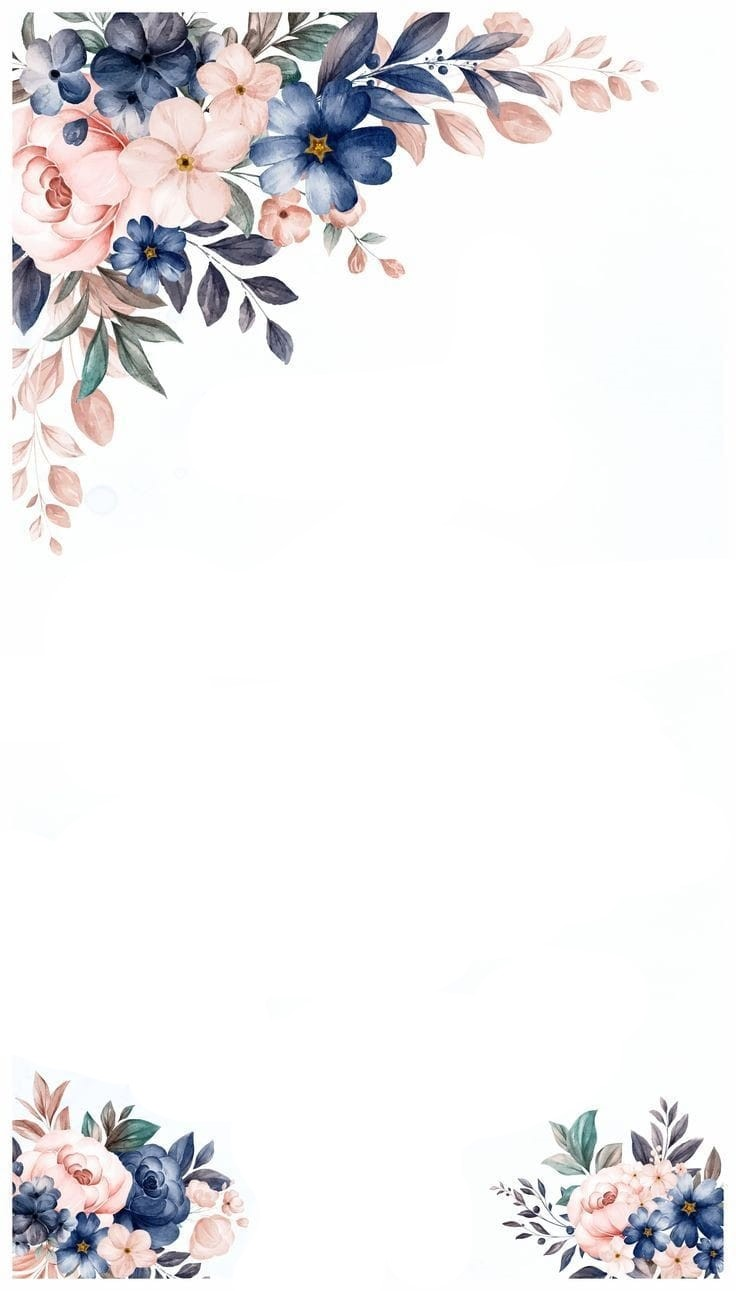
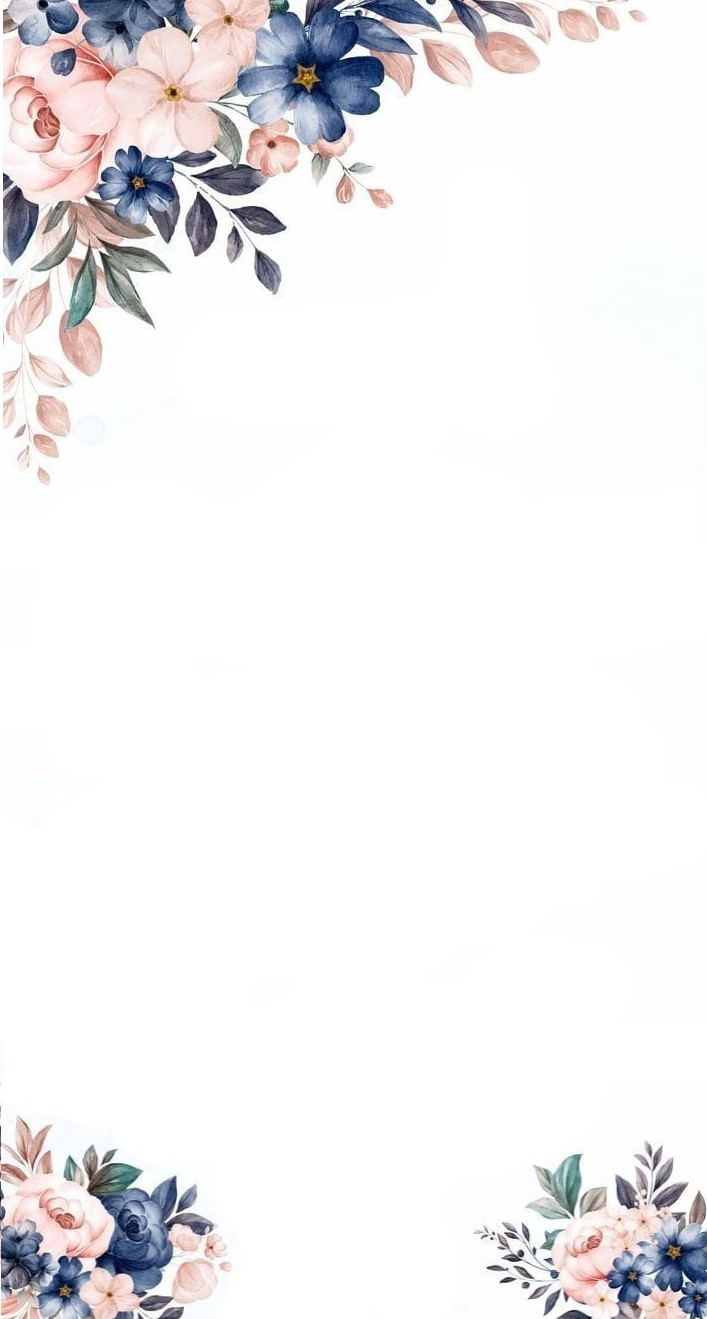
Creando página principal

Changed region(s): [[0.0, 0.0, 0.9024, 0.4338], [0.0, 0.8366, 0.3423, 1.0], [0.6846, 0.8366, 1.0, 1.0]]

diff --git a/assets/css/styles.css b/assets/css/styles.css
@@ -3,91 +3,40 @@
   box-sizing: border-box;
 }
 
-body {
-  font-family: "Josefin Sans", sans-serif;
-}
-
+/*PAGINA PRINCIPAL*/
 .container {
-  background-image: url(../images/fondo_1.jpg);
-  background-repeat: no-repeat;
   height: 100vh;
   width: 100%;
+  position: relative;
+}
+.container__img {
+  width: 100%;
+  height: 100%;
   max-width: 800px;
+  position: absolute;
+  z-index: -10;
+}
+.card__title {
+  text-align: center;
+  width: 70%;
+  padding-top: 200px;
+  font-family: "Roboto Slab", serif;
   margin: 0 auto;
-  padding: 20px;
+  color: #161a30;
 }
-.title {
+.card__names {
+  margin-top: 30px;
   text-align: center;
-  margin-top: 50px;
-  font-weight: 700;
-  font-size: 2.2rem;
-  background-color: #ffffffb6;
-  border-radius: 10px;
+  font-size: 4rem;
+  font-family: "Dancing Script", cursive;
+  color: #daa520;
+  font-weight: 100;
 }
-.registro__title {
-  text-align: center;
-  margin: 40px 0;
-}
-.label {
-  font-weight: 500;
-  font-size: 1.5rem;
-  margin-bottom: 5px;
-}
-.label--2 {
-  margin-top: 20px;
-}
-.descripcion {
-  text-align: center;
-  font-weight: 700;
-  margin-top: 50px;
-}
-.input__container {
-  display: flex;
-  flex-direction: column;
-  gap: 10px;
-  text-align: center;
-  margin-top: 50px;
-}
-.input-1 {
-  text-align: center;
-  font-size: 1.1rem;
+.card__subtitle {
   width: 80%;
-  height: 35px;
   margin: 0 auto;
-  margin-bottom: 20px;
-  border-radius: 10px;
-}
-.select-1,
-.select-2 {
+  margin-top: 30px;
+  color: #161a30;
   text-align: center;
-  width: 15%;
-  margin: 0 auto;
-  border-radius: 10px;
-  font-size: 1.2rem;
-  font-weight: 700;
-}
-
-.submit__btn {
-  color: aliceblue;
-  font-size: 1.5rem;
-  font-weight: 700;
-  display: flex;
-  align-items: center;
-  justify-content: center;
-  margin: 50px auto;
-  width: 180px;
-  height: 45px;
-  border-radius: 10px;
-  background-color: #f35597;
-  border: none;
-  box-shadow: 2px 2px 2px#0051ff;
-}
-.submit__btn:hover {
-  opacity: 70%;
-  cursor: pointer;
-}
-
-.registered {
-  text-align: center;
-  line-height: 20px;
+  font-family: "Roboto Slab", serif;
 }

diff --git a/assets/css/styles_2.css b/assets/css/styles_2.css
@@ -1,0 +1,94 @@
+* {
+  margin: 0;
+  box-sizing: border-box;
+}
+
+body {
+  font-family: "Josefin Sans", sans-serif;
+}
+
+/*PAGINA SECUNDARIA*/
+.container {
+  background-image: url(../images/fondo_1.jpg);
+  background-repeat: no-repeat;
+  height: 100vh;
+  width: 100%;
+  max-width: 800px;
+  margin: 0 auto;
+  padding: 20px;
+}
+.title {
+  text-align: center;
+  margin-top: 50px;
+  font-weight: 700;
+  font-size: 2.2rem;
+  background-color: #ffffffb6;
+  border-radius: 10px;
+}
+.registro__title {
+  text-align: center;
+  margin: 40px 0;
+}
+.label {
+  font-weight: 500;
+  font-size: 1.5rem;
+  margin-bottom: 5px;
+}
+.label--2 {
+  margin-top: 20px;
+}
+.descripcion {
+  text-align: center;
+  font-weight: 700;
+  margin-top: 50px;
+}
+.input__container {
+  display: flex;
+  flex-direction: column;
+  gap: 10px;
+  text-align: center;
+  margin-top: 50px;
+}
+.input-1 {
+  text-align: center;
+  font-size: 1.1rem;
+  width: 80%;
+  height: 35px;
+  margin: 0 auto;
+  margin-bottom: 20px;
+  border-radius: 10px;
+}
+.select-1,
+.select-2 {
+  text-align: center;
+  width: 15%;
+  margin: 0 auto;
+  border-radius: 10px;
+  font-size: 1.2rem;
+  font-weight: 700;
+}
+
+.submit__btn {
+  color: aliceblue;
+  font-size: 1.5rem;
+  font-weight: 700;
+  display: flex;
+  align-items: center;
+  justify-content: center;
+  margin: 50px auto;
+  width: 180px;
+  height: 45px;
+  border-radius: 10px;
+  background-color: #f35597;
+  border: none;
+  box-shadow: 2px 2px 2px#0051ff;
+}
+.submit__btn:hover {
+  opacity: 70%;
+  cursor: pointer;
+}
+
+.registered {
+  text-align: center;
+  line-height: 20px;
+}

diff --git a/index.html b/index.html
@@ -1,13 +1,28 @@
 <!DOCTYPE html>
 <html lang="en">
+
 <head>
     <meta charset="UTF-8">
     <meta name="viewport" content="width=device-width, initial-scale=1.0">
     <title>Nuestro Matrimonio ❤</title>
     <link rel="stylesheet" href="./assets/css/styles.css">
+    <link rel="preconnect" href="https://fonts.googleapis.com">
+    <link rel="preconnect" href="https://fonts.gstatic.com" crossorigin>
+    <link href="https://fonts.googleapis.com/css2?family=Roboto+Slab:wght@300;500;700&display=swap" rel="stylesheet">
+    <link rel="preconnect" href="https://fonts.googleapis.com">
+    <link rel="preconnect" href="https://fonts.gstatic.com" crossorigin>
+    <link href="https://fonts.googleapis.com/css2?family=Dancing+Script&display=swap" rel="stylesheet">
 </head>
-<body>
 
-   
+<body>
+    <div class="container">
+        <img src="./assets/images/fondo_2.jpg" alt="" class="container__img">
+        <h3 class="card__title">"El amor solo es lindo cuando encontramos a alguien que nos transforma a lo emjor que
+            podamos ser."</h3>
+        <h1 class="card__names">Viviana Y Ebrain</h1>
+        <h3 class="card__subtitle">Los invitan para celebrar el amor y conmemorar este momento tan especial...</h3>
+    </div>
+
 </body>
+
 </html>

diff --git a/index_2.html b/index_2.html
@@ -5,7 +5,7 @@
     <meta charset="UTF-8">
     <meta name="viewport" content="width=device-width, initial-scale=1.0">
     <title>Resgistro</title>
-    <link rel="stylesheet" href="./assets/css/styles.css">
+    <link rel="stylesheet" href="./assets/css/styles_2.css">
     <link rel="preconnect" href="https://fonts.googleapis.com">
     <link rel="preconnect" href="https://fonts.gstatic.com" crossorigin>
     <link
